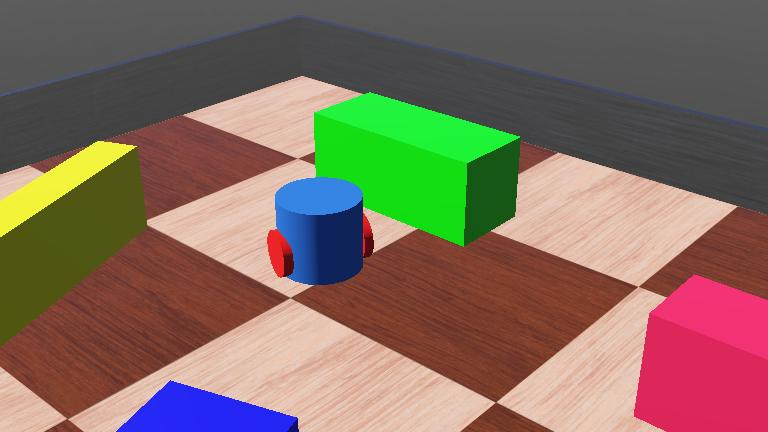
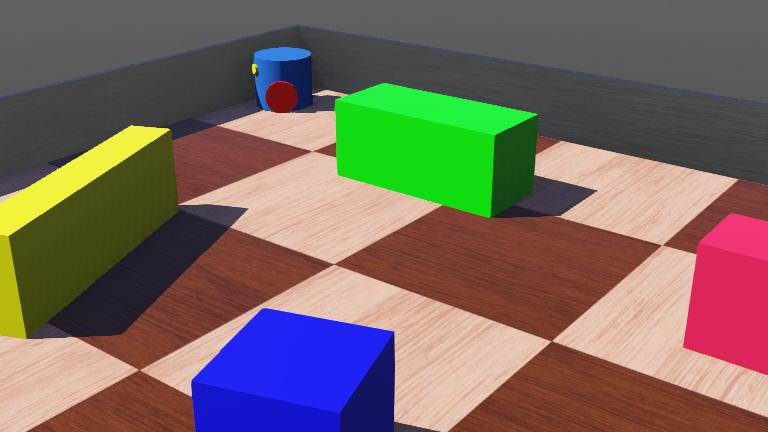
First commit for debug navigation

diff --git a/boxbot/simulator/board/board.py b/boxbot/simulator/board/board.py
@@ -1,0 +1,50 @@
+import time
+from math import pi, sin
+
+import zmq
+
+from boxbot.config import BOARD_ZMQ_PORT, ZMQ_HOST
+from controller import Robot
+
+
+class Board():
+
+    def __init__(self):
+        print("Init board simulator.")
+
+        self.context = zmq.Context()
+        self.socket = self.context.socket(zmq.PUB)
+
+        self.socket.bind("tcp://{}:{}".format(ZMQ_HOST, BOARD_ZMQ_PORT))
+
+        self.robot = Robot()
+
+        self.left_motor = self.robot.getDevice("left wheel motor")
+        self.right_motor = self.robot.getDevice("right wheel motor")
+
+    def start(self):
+        print("Start board sim.")
+
+        F = 2.0  # frequency 2 Hz
+        t = 0.0  # elapsed simulation time
+
+        TIME_STEP = 64
+
+        while self.robot.step(TIME_STEP) != -1:
+
+            self.left_motor.setPosition(float('inf'))
+            self.right_motor.setPosition(float('inf'))
+
+            self.left_motor.setVelocity(-10)
+            self.right_motor.setVelocity(10)
+
+
+
+
+def main():
+    board = Board()
+    board.start()
+
+
+if __name__ == '__main__':
+    main()

diff --git a/boxbot/debug/navigate.py b/boxbot/debug/navigate.py
@@ -1,0 +1,35 @@
+import pygame
+
+
+
+def main():
+
+    pygame.init()
+
+    display = pygame.display.set_mode((300, 300))
+
+    while True:
+
+        # creating a loop to check events that
+        # are occurring
+        for event in pygame.event.get():
+            if event.type == pygame.QUIT:
+                pygame.quit()
+                sys.exit()
+
+            # checking if keydown event happened or not
+            if event.type == pygame.KEYDOWN:
+
+                if event.key == pygame.K_LEFT:
+                    print("LEFT key pressed")
+                elif event.key == pygame.K_RIGHT:
+                    print("RIGHT key pressed")
+                elif event.key == pygame.K_UP:
+                    print("UP key pressed")
+
+
+
+
+
+if __name__== "__main__":
+    main()

diff --git a/boxbot/bcontroller/state/goto.py b/boxbot/bcontroller/state/goto.py
@@ -16,5 +16,5 @@ class GotoState(State):
         self.index += 1
 
         if self.index == 10:
-            from boxbot.controller.state.idle import IdleState
+            from boxbot.bcontroller.state.idle import IdleState
             fsm.transition_to(IdleState())

diff --git a/boxbot/bcontroller/state/idle.py b/boxbot/bcontroller/state/idle.py
@@ -14,5 +14,5 @@ class IdleState(State):
         self.index += 1
 
         if self.index == 10:
-            from boxbot.controller.state.goto import GotoState
+            from boxbot.bcontroller.state.goto import GotoState
             fsm.transition_to(GotoState())

diff --git a/boxbot/bcontroller/controller.py b/boxbot/bcontroller/controller.py
@@ -3,7 +3,7 @@ import time
 import zmq
 
 from boxbot.config import BOARD_ZMQ_PORT, COMMAND_ZMQ_PORT, ZMQ_HOST
-from boxbot.controller.state.idle import IdleState
+from boxbot.bcontroller.state.idle import IdleState
 from boxbot.fsm.fsm import FiniteStateMachine
 
 

diff --git a/boxbot/manager/manager.py b/boxbot/manager/manager.py
@@ -19,7 +19,7 @@ class Manager:
 
     managed_process_sim = {
         # "boxbot_controller": "boxbot.controller.controller",
-        "boxbot_board": "boxbot.board.board",
+        "boxbot_board_sim": "boxbot.simulator.board.board",
 
     }
 
